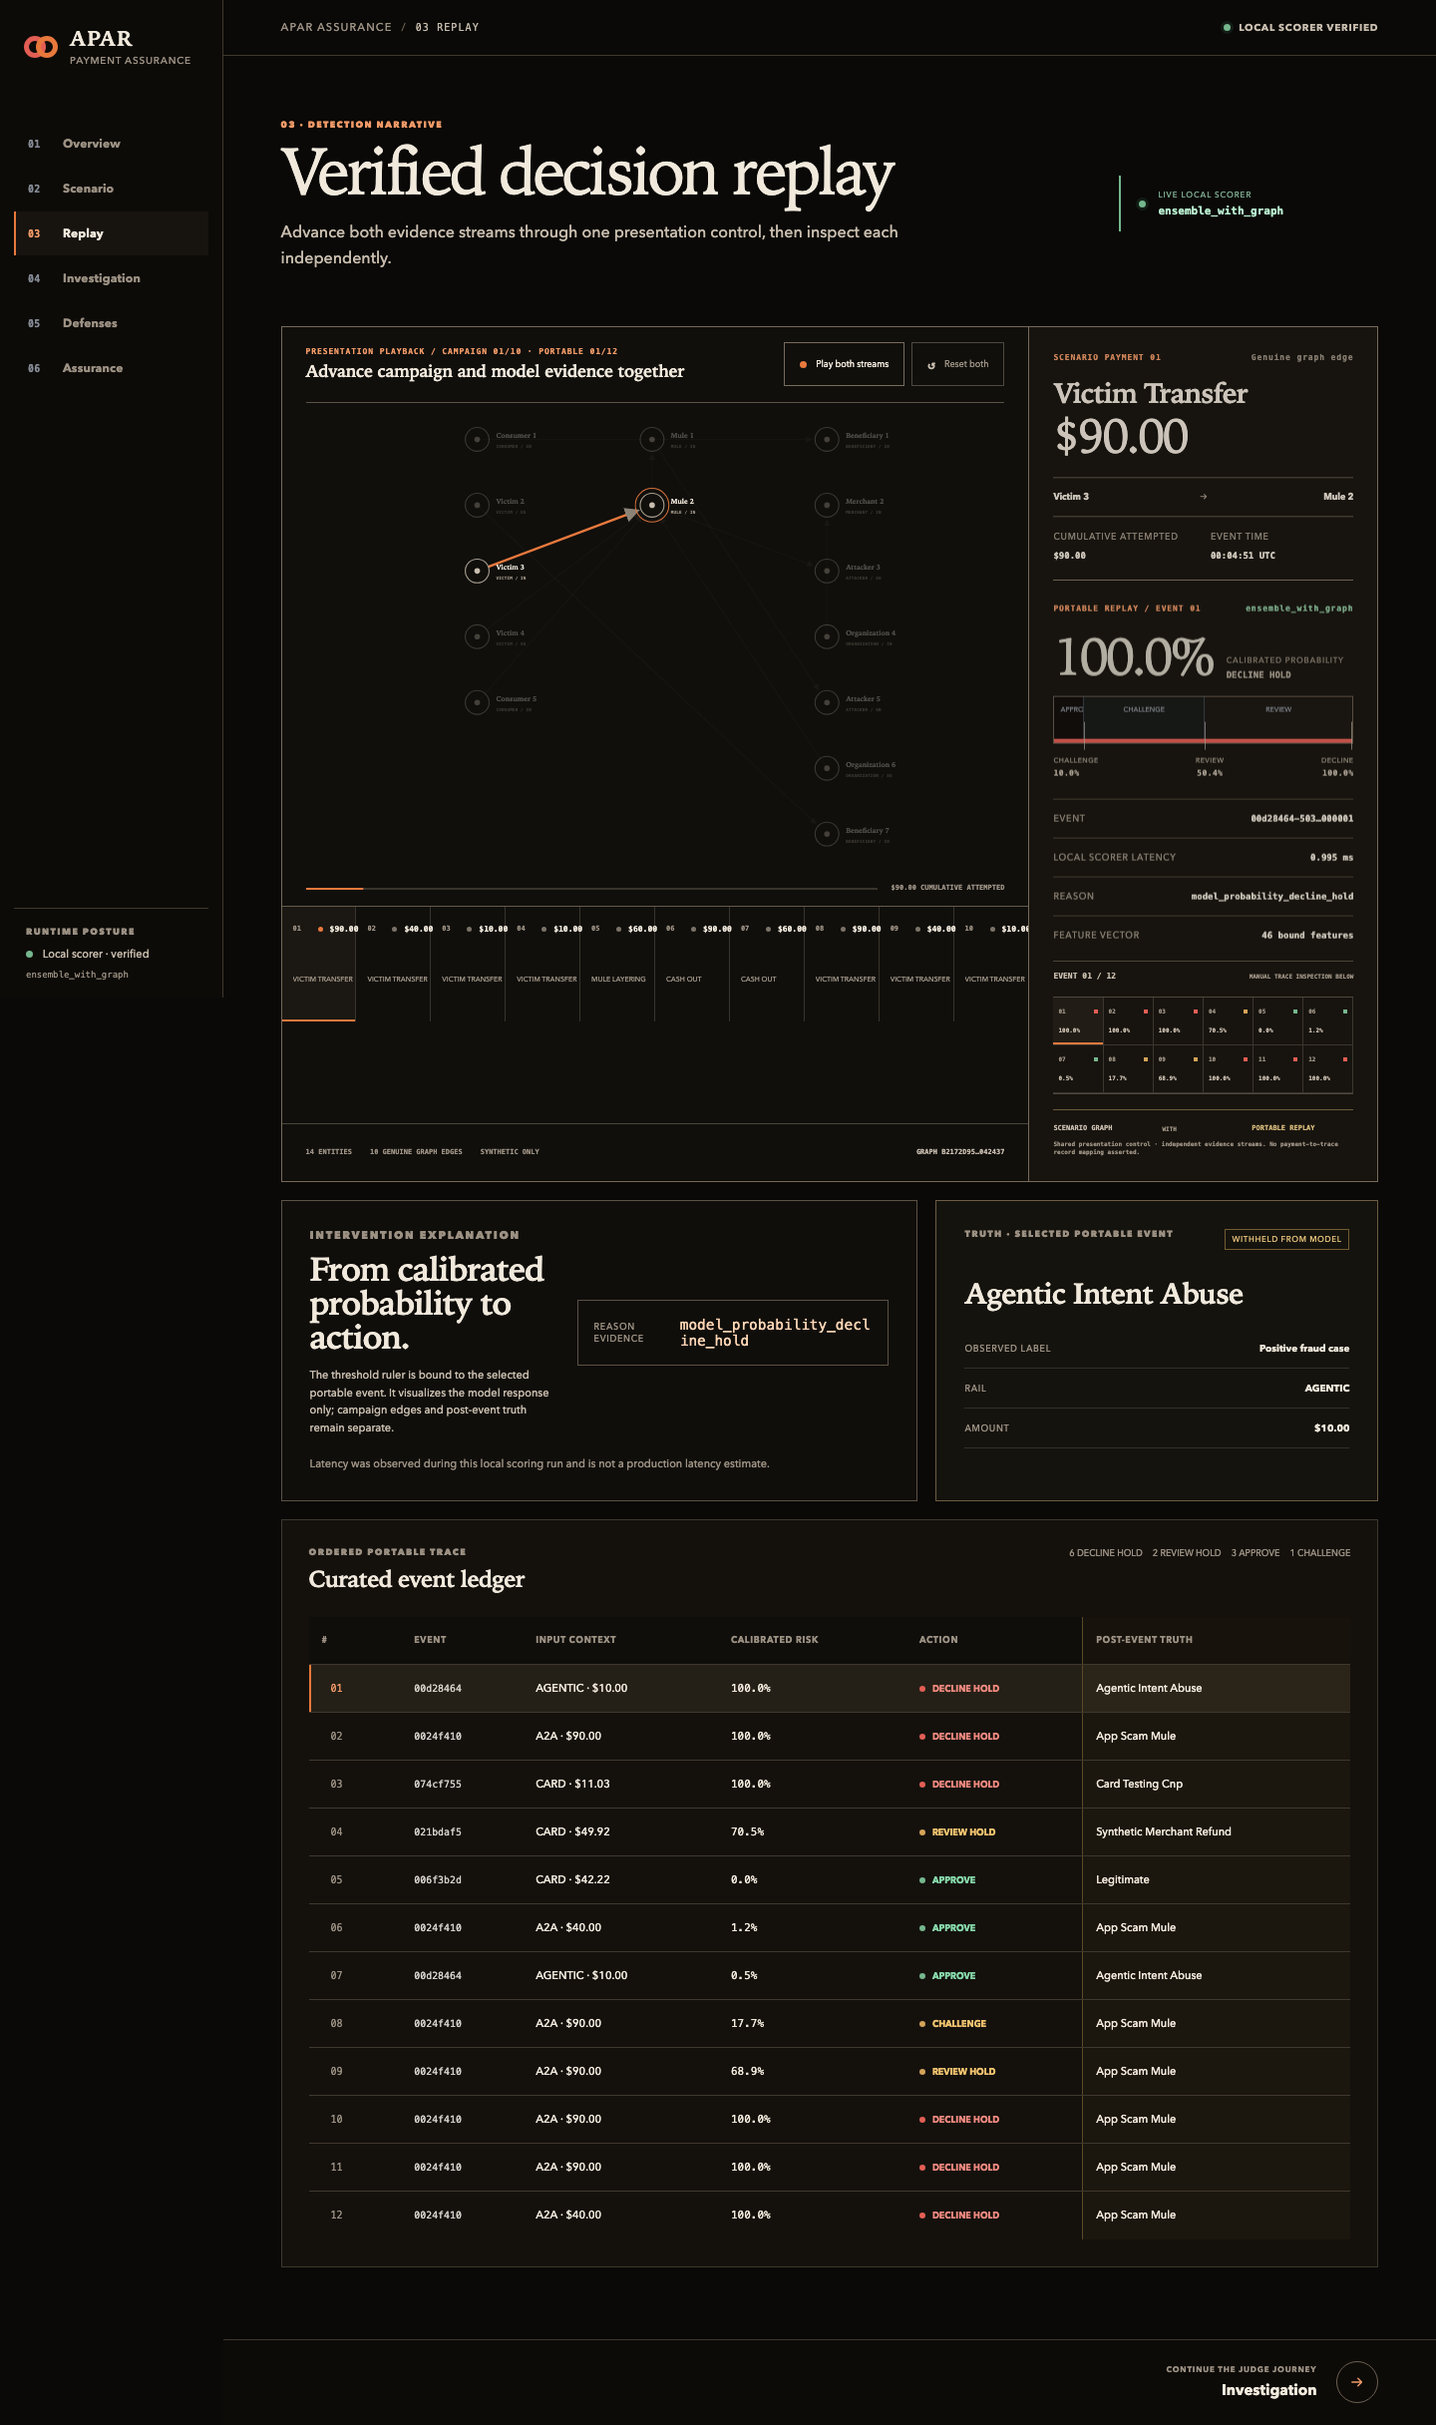
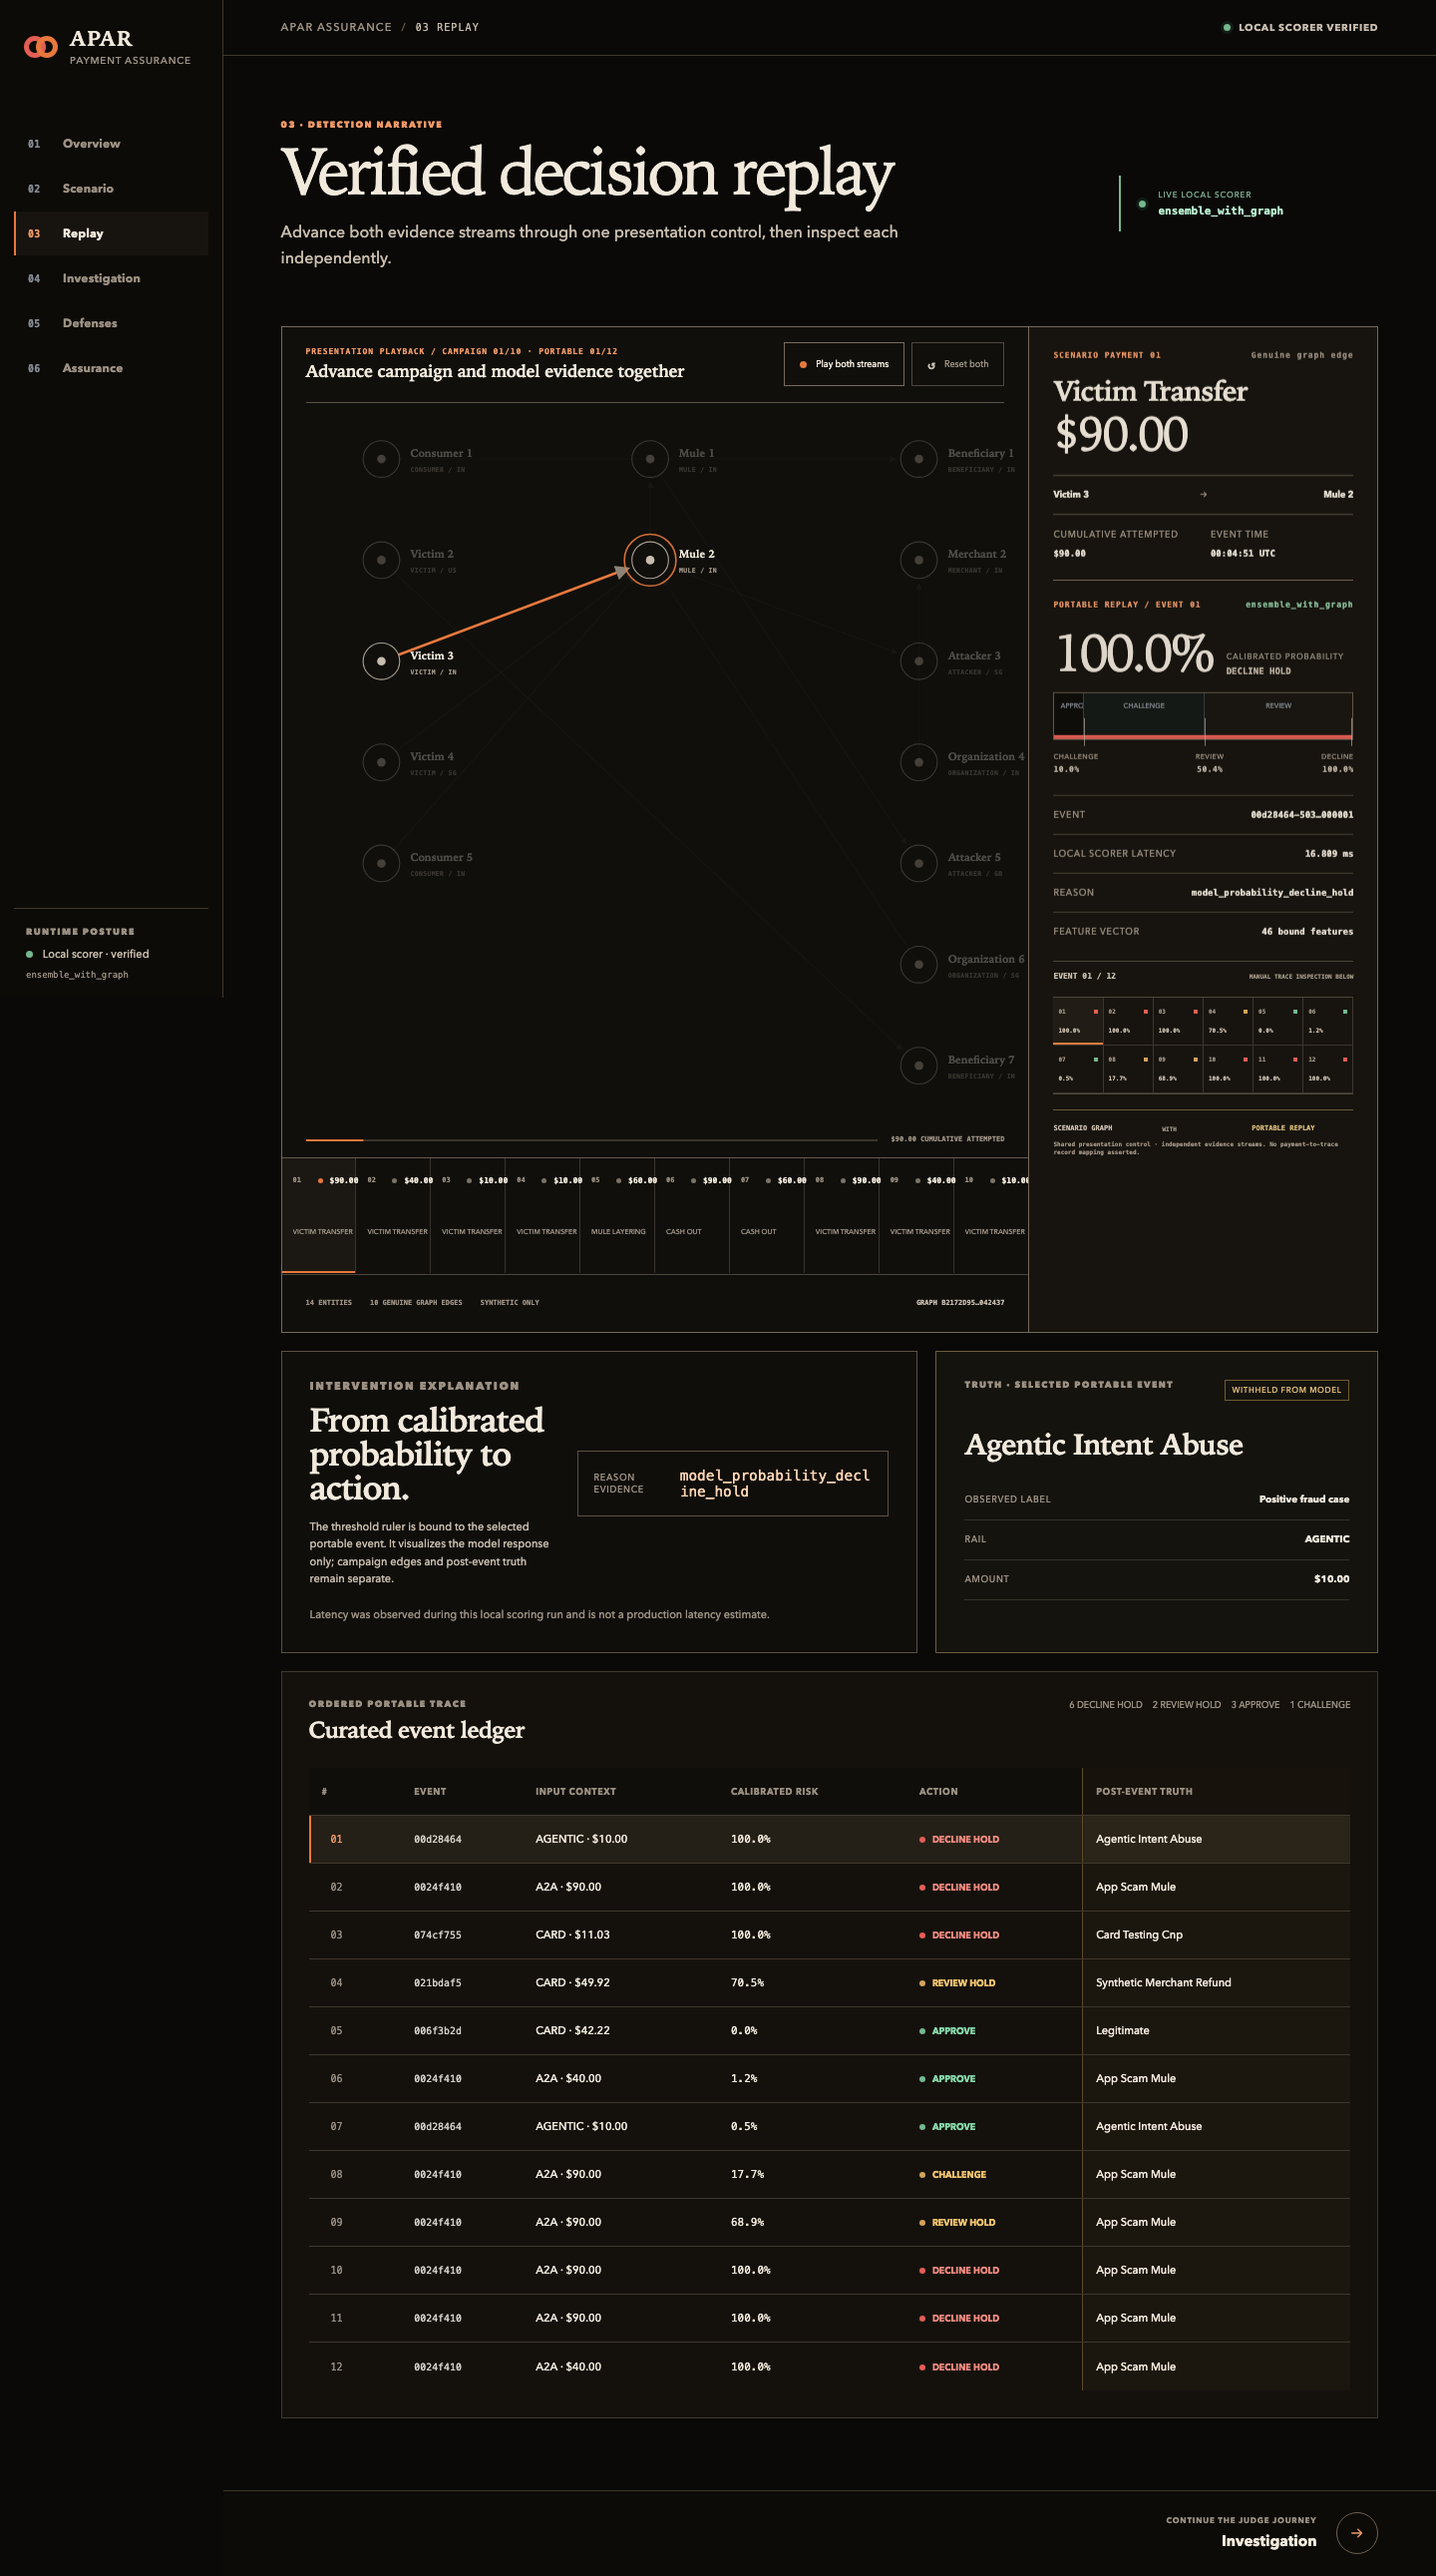
fix: tighten replay campaign spacing

diff --git a/web/src/styles.css b/web/src/styles.css
@@ -308,7 +308,7 @@ meter::-webkit-meter-optimum-value { background: var(--orange); }
 
 /* Editorial Casefile — accepted graph-led replay narrative */
 .replay-narrative { display: grid; grid-template-columns: minmax(0, 1fr) 350px; border: 1px solid #766957; background: #100f0c; }
-.campaign-playback { min-width: 0; display: grid; grid-template-rows: 76px 470px 34px auto 58px; padding: 0 24px; }
+.campaign-playback { min-width: 0; display: grid; grid-template-rows: 76px minmax(470px, 1fr) 34px 117px 58px; padding: 0 24px; }
 .campaign-playback-head { display: flex; align-items: center; justify-content: space-between; gap: 20px; border-bottom: 1px solid #5b5144; }
 .campaign-playback-head > div:first-child { display: grid; gap: 7px; }
 .campaign-playback-head span, .scenario-payment-state > header, .portable-response-state > header { color: var(--orange-hot); font: 700 8px/1 var(--mono); letter-spacing: .11em; }
@@ -319,7 +319,7 @@ meter::-webkit-meter-optimum-value { background: var(--orange); }
 .campaign-play-button[aria-pressed="true"] i { border-radius: 0; animation: campaign-play-pulse 900ms linear infinite; }
 .campaign-reset-button { border-color: #4f483e; color: var(--muted); }
 .campaign-reset-button span { color: var(--text-soft); font-size: 13px; letter-spacing: 0; }
-.replay-campaign-graph { width: 100%; height: 470px; display: block; overflow: visible; }
+.replay-campaign-graph { width: 100%; height: 100%; display: block; overflow: visible; }
 .replay-graph-edges line { stroke: #675f54; stroke-width: 1.1; opacity: .78; vector-effect: non-scaling-stroke; transition: opacity var(--duration-standard) var(--ease-out), stroke 180ms var(--ease-out), stroke-width 180ms var(--ease-out); }
 .replay-graph-edges line.is-selected { stroke: var(--orange); stroke-width: 2.5; opacity: 1; }
 .replay-graph-edges line.is-concealed { opacity: .07; }

diff --git a/web/e2e/golden-path.spec.ts b/web/e2e/golden-path.spec.ts
@@ -114,3 +114,26 @@ test("reduced motion campaign advances only on explicit steps", async ({ page })
   const animationName = await page.locator(".replay-value-packet").evaluate((element) => getComputedStyle(element).animationName);
   expect(animationName).toBe("none");
 });
+
+test("campaign tape stays compact beside its evidence footer", async ({ page }) => {
+  await page.goto("/replay");
+  await expect(page.getByRole("list", { name: "Ordered campaign payments" })).toBeVisible();
+
+  const spacing = await page.evaluate(() => {
+    const tapeScroll = document.querySelector<HTMLElement>(".campaign-tape-scroll");
+    const tape = document.querySelector<HTMLElement>(".campaign-tape");
+    const footer = document.querySelector<HTMLElement>(".campaign-evidence-foot");
+    if (!tapeScroll || !tape || !footer) throw new Error("Replay spacing elements are unavailable");
+    const tapeScrollRect = tapeScroll.getBoundingClientRect();
+    const tapeRect = tape.getBoundingClientRect();
+    const footerRect = footer.getBoundingClientRect();
+    return {
+      footerGap: footerRect.top - tapeScrollRect.bottom,
+      tapeHeight: tapeRect.height,
+      tapeScrollHeight: tapeScrollRect.height,
+    };
+  });
+
+  expect(spacing.tapeScrollHeight).toBeLessThanOrEqual(spacing.tapeHeight + 2);
+  expect(Math.abs(spacing.footerGap)).toBeLessThanOrEqual(1);
+});

diff --git a/docs/demo/APAR_CONSOLE_VERIFICATION.md b/docs/demo/APAR_CONSOLE_VERIFICATION.md
@@ -34,7 +34,7 @@ architecture-arm inspection, or full lineage inspection.
 - TypeScript project check: passed.
 - ESLint with zero warnings: passed.
 - Vite production build: passed.
-- Playwright desktop/mobile suite: 10 tests passed.
+- Playwright desktop/mobile suite: 12 tests passed.
 - Playwright route smoke: all six routes, both breakpoints.
 - Axe automated checks: no violations on Overview, Replay, and Assurance,
   desktop/mobile.
